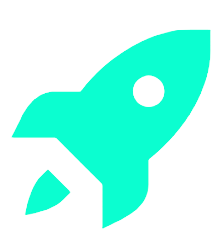
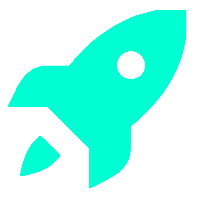
🔵 other: update

diff --git a/src/screens/homescreen/toolsDetails/ToolsDetails.module.scss b/src/screens/homescreen/toolsDetails/ToolsDetails.module.scss
@@ -105,7 +105,7 @@
             .card {
                 @include displayFlex(center, center, column);
                 @include screenSize(100%, 100%);
-                padding: 2rem;
+                padding: 3rem 2rem;
                 background: #f5f5f5;
                 border-radius: 24px;
                 border: 2px solid $color1;
@@ -123,7 +123,7 @@
                    width: 85vw;
                 }
                 &_icon{
-                    width: 100px;
+                    width: 90px;
                 }
         
                 p {
